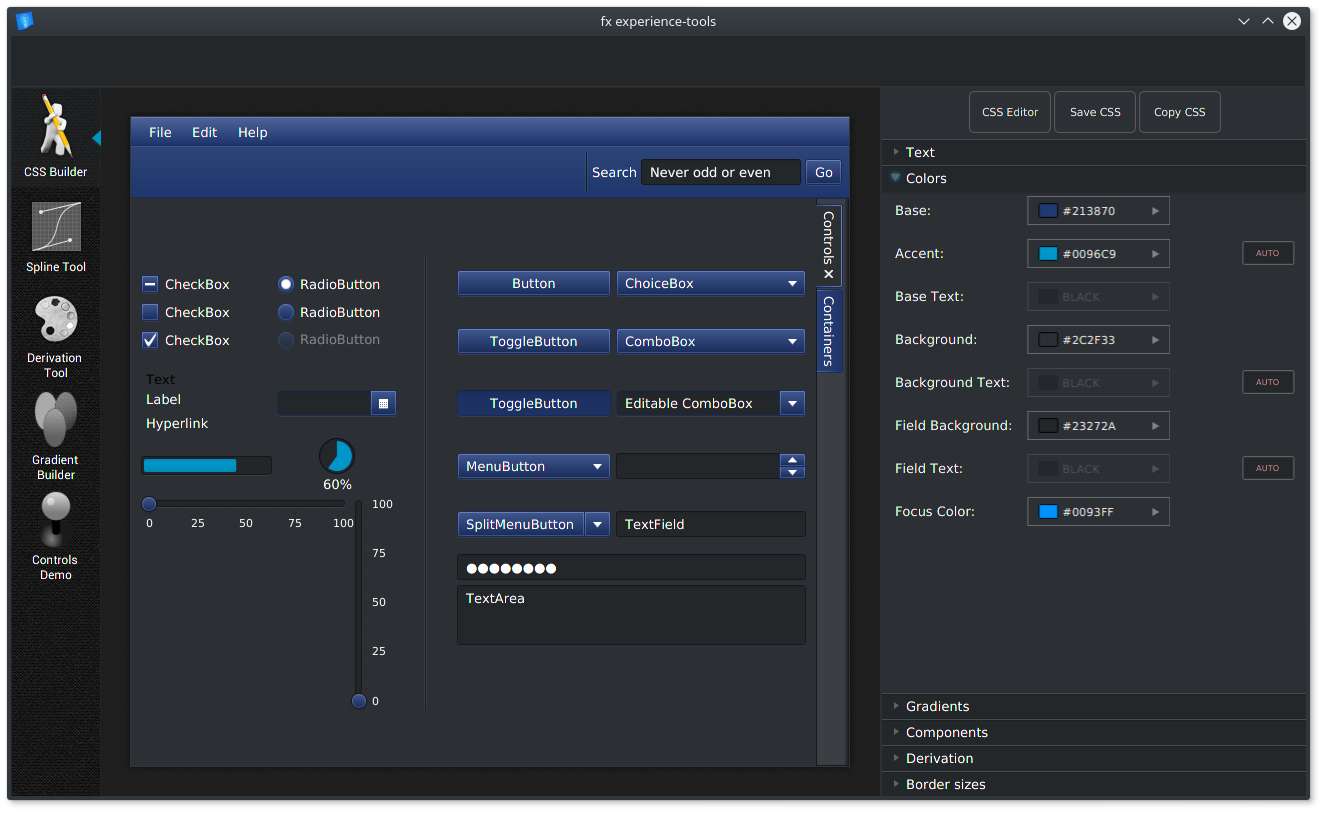
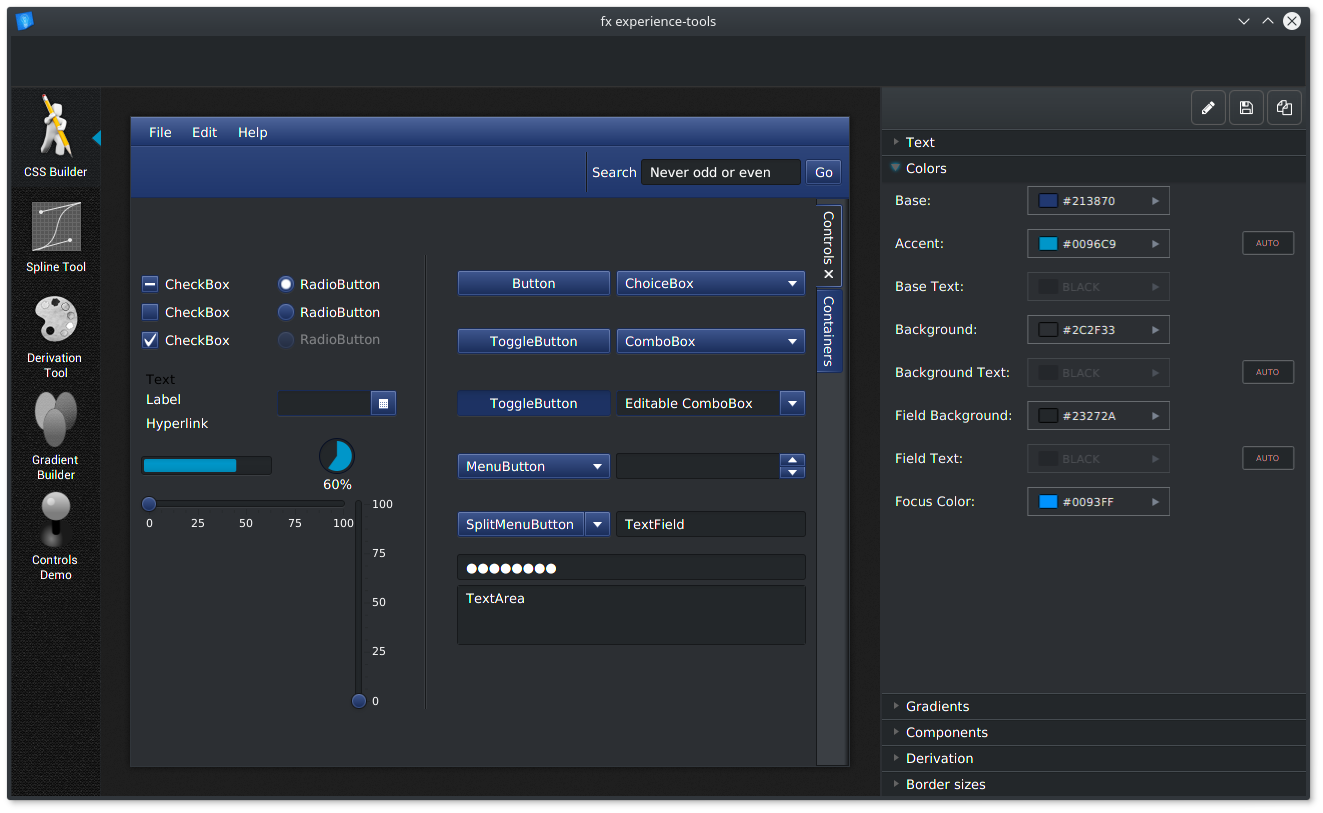
update theme

diff --git a/FXExperienceTools/src/main/resources/styles/style_panel_dark.css b/FXExperienceTools/src/main/resources/styles/style_panel_dark.css
@@ -38,7 +38,8 @@
 }
 
 .button-hbox {
-    -fx-background-color: #2c2f33;
+    -fx-background-color: linear-gradient(from 100.0% 0.0% to 100.0% 100.0%,
+    derive(#23272a, 20%) 0.0%, derive(#23272a, 17%) 21.0%, derive(#23272a, 16%) 38.0%, derive(#23272a, 10%) 100.0%);
 }
 .style-button {
     -fx-background-color: -fe-shadow-highlight-color, -fe-inner-border, -fe-inner-border, -fe-body-color;
@@ -66,8 +67,8 @@
     -fx-font-size: .825em;
     -fx-background-color: transparent;
     -fx-border-color: #5c5c5c;
-    -fx-pref-width: 82px;
-    -fx-pref-height: 42px;
+    -fx-pref-width: 35px;
+    -fx-pref-height: 35px;
     -fx-border-radius: 5;
     -fx-text-fill: #E7E7E7;
 }
@@ -75,6 +76,8 @@
 .style-button:focused {
     -fx-background-color: -fe-focus-background;
     -fx-border-color: #5c5c5c;
+    -fx-max-width: 35px;
+    -fx-max-height: 35px;
     -fx-text-fill: #E7E7E7;
 }
 

diff --git a/FXExperienceTools/src/main/java/com/fxexperience/tools/controller/StyleController.java b/FXExperienceTools/src/main/java/com/fxexperience/tools/controller/StyleController.java
@@ -103,13 +103,11 @@ public class StyleController extends VBox {
             Logger.getLogger(StyleController.class.getName()).log(Level.SEVERE, null, ex);
         }
 
-
         textTitlePane.setContent(fontPickerController);
         editorPane.getChildren().add(new VirtualizedScrollPane<>(codeArea));
         previewPane.setCenter(previewController);
 
         addListeners();
-
 
         // create Integer Fields
         addTextFieldBinding(paddingSlider, paddingTextField);
@@ -473,12 +471,10 @@ public class StyleController extends VBox {
     private void displayEditorPane() {
         if (!editorPane.isVisible()) {
             editorPane.setVisible(true);
-            btnEditor.setText("Controls");
             setCodeAreaText();
         }
         else {
             editorPane.setVisible(false);
-            btnEditor.setText("CSS Editor");
         }
     }
 
